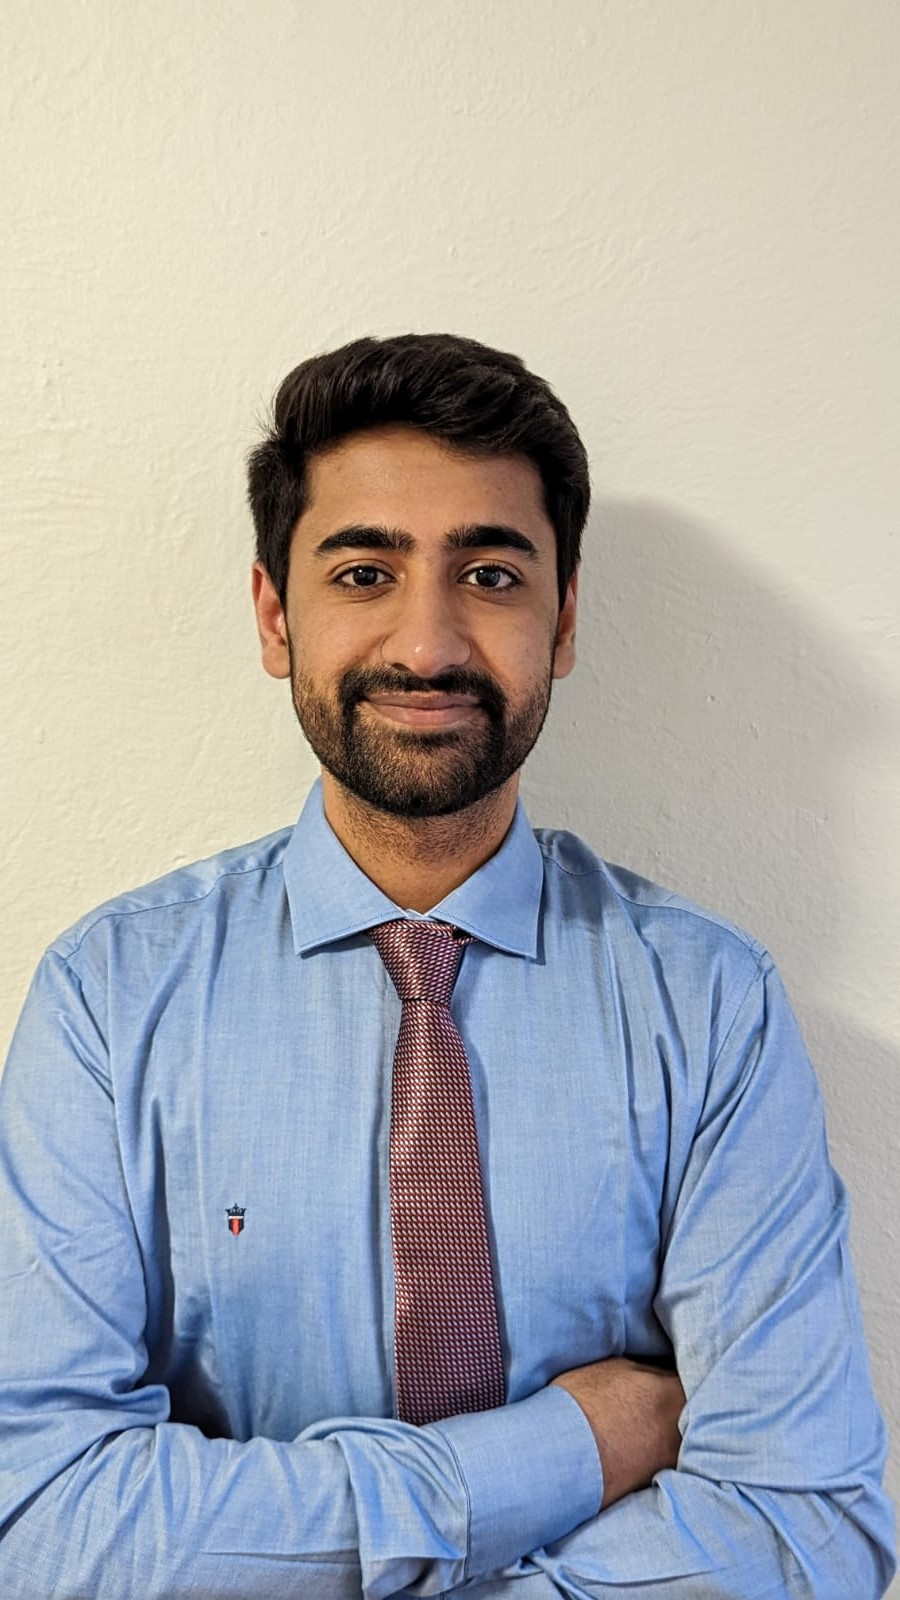
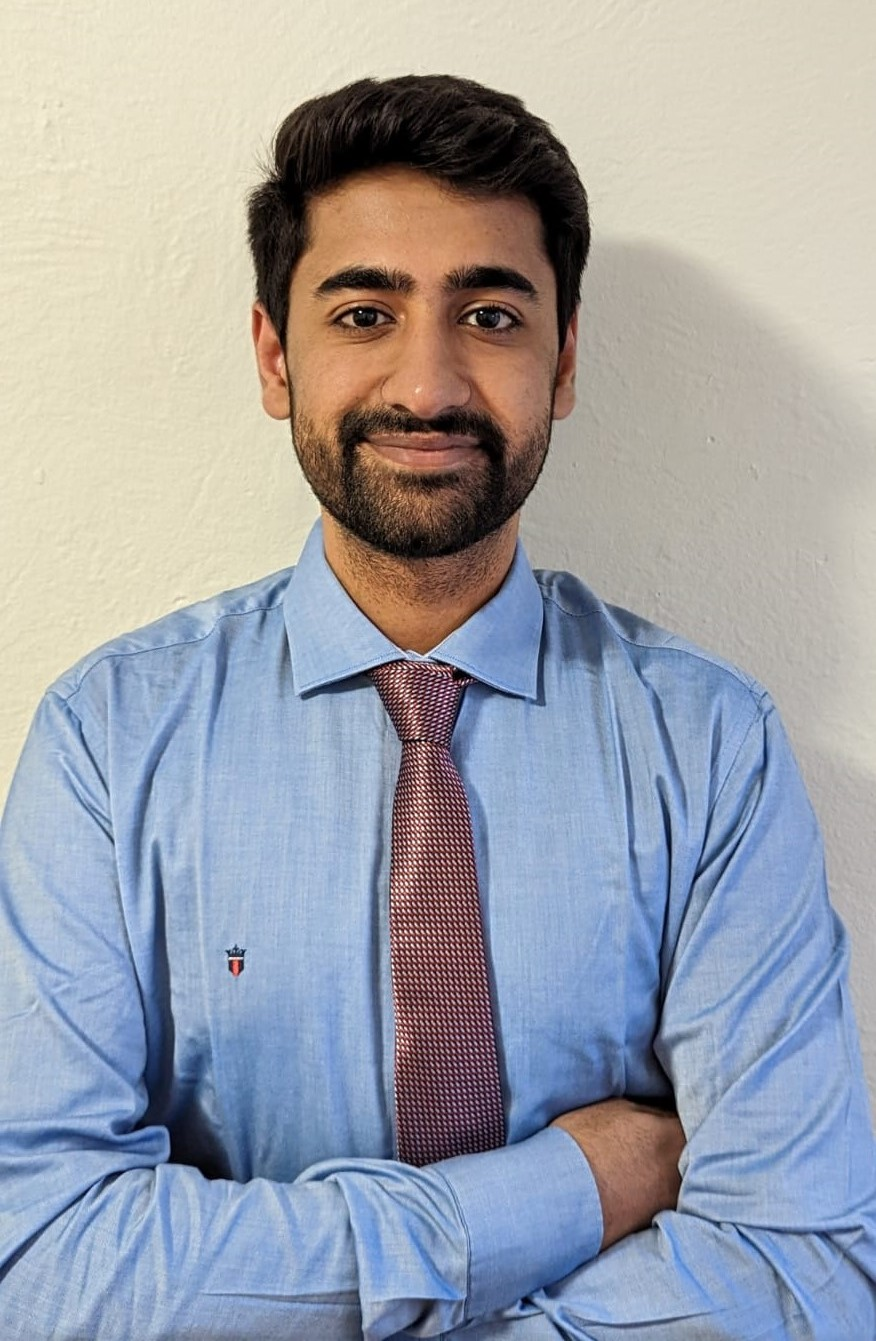
added shadow to cards

diff --git a/src/components/Contact/Contact.jsx b/src/components/Contact/Contact.jsx
@@ -16,6 +16,7 @@ const Footer = () => {
             behavior: "smooth",
         });
     };
+
     return (
         <Container id="contact">
             <Profile>
@@ -43,30 +44,60 @@ const Footer = () => {
                     </Slide>
                     <div className="icons">
                         <Zoom>
-                            <span>
-                                <a href="/">
+                            <span
+                                onClick={() =>
+                                    window.open(
+                                        "https://www.linkedin.com/in/anshul1610",
+                                        "_blank"
+                                    )
+                                }
+                            >
+                                <a>
                                     <AiFillLinkedin />
                                 </a>
                             </span>
                         </Zoom>
                         <Zoom>
-                            <span>
-                                <a href="/">
+                            <span
+                                onClick={() =>
+                                    window.open(
+                                        "https://www.github.com/anshulsharma1610",
+                                        "_blank"
+                                    )
+                                }
+                            >
+                                <a>
                                     <AiFillGithub />
                                 </a>
                             </span>
                         </Zoom>
                         <Zoom>
-                            <span>
-                                <a href="/">
+                            <span
+                                onClick={() =>
+                                    window.open(
+                                        "https://www.instagram.com/anshul1610",
+                                        "_blank"
+                                    )
+                                }
+                            >
+                                <a>
                                     <AiOutlineInstagram />
                                 </a>
                             </span>
                         </Zoom>
                     </div>
                 </div>
-            </Profile>
 
+                <Slide direction="right" delay={1}>
+                    <Technologies>
+                        <p>
+                            Built with <span className="green">React</span>,
+                            Styled Components, & React Icons, deployed with{" "}
+                            <span className="green"></span>.
+                        </p>
+                    </Technologies>
+                </Slide>
+            </Profile>
             <Fade>
                 <ArrowUp onClick={scrollUp}>
                     <AiOutlineArrowUp />
@@ -183,5 +214,14 @@ const ArrowUp = styled.div`
         bottom: 15rem;
         right: 3rem;
         z-index: 999;
+    }
+`;
+
+const Technologies = styled.div`
+    margin-top: 1rem;
+    text-align: center;
+
+    p {
+        font-size: 1rem;
     }
 `;

diff --git a/src/components/Banner/ProfComponent.jsx b/src/components/Banner/ProfComponent.jsx
@@ -1,12 +1,10 @@
 import React from "react";
-import { Redirect } from "react-router";
 import styled from "styled-components";
 import {
     AiOutlineInstagram,
     AiFillLinkedin,
     AiFillGithub,
 } from "react-icons/ai";
-import { FaLinkedinIn } from "react-icons/fa";
 import { Slide } from "react-awesome-reveal";
 
 const ProfComponent = () => {
@@ -69,13 +67,12 @@ const ProfComponent = () => {
                     <Social>
                         <div className="social-icons">
                             <span
-                                onClick={() => {
+                                onClick={() =>
                                     window.open(
                                         "https://www.linkedin.com/in/anshul1610",
                                         "_blank"
-                                    );
-                                    return false;
-                                }}
+                                    )
+                                }
                             >
                                 <a>
                                     <AiFillLinkedin />
@@ -159,15 +156,16 @@ const Texts = styled.div`
 
     button {
         padding: 0.7rem 2rem;
-        margin-top: 3rem;
+        margin-top: 2rem;
         cursor: pointer;
         background-color: #01be96;
         border: none;
         color: #fff;
         font-weight: 500;
-        filter: drop-shadow(0px 10px 10px #01be9551);
+        filter: drop-shadow(0px 0px 3px #64ffda);
         :hover {
-            filter: drop-shadow(0px 10px 10px #01be9570);
+            filter: drop-shadow(0px 1px 6px #64ffda) !important;
+            transform: rotate(359deg) !important;
         }
     }
 `;
@@ -201,7 +199,9 @@ const Social = styled.div`
             background-color: #01be96;
             position: relative;
             transition: transform 400ms ease-in-out;
+            filter: drop-shadow(0px 0px 10px #64ffda);
             :hover {
+                filter: drop-shadow(0px 10px 10px #64ffda) !important;
                 transform: rotate(360deg);
             }
         }
@@ -215,13 +215,17 @@ const Social = styled.div`
         }
     }
 `;
+
 const Profile = styled.div`
     img {
         width: 25rem;
-        height: 35rem;
-        border-radius: 10rem;
-        filter: drop-shadow(0px 10px 10px #01be9570);
-        transition: transform 400ms ease-in-out;
+        height: 30rem;
+        position: relative;
+        overflow: hidden;
+        border-radius: 11rem;
+        box-shadow: 0 0 10px rgba(0, 0, 0, 0.3); /* Customize the box shadow properties */
+        filter: drop-shadow(0px 4px 10px #64ffda);
+        transition: transform 300ms ease-in-out;
         @media (max-width: 790px) {
             width: 20rem;
         }
@@ -236,6 +240,7 @@ const Profile = styled.div`
     }
 
     :hover img {
+        filter: drop-shadow(0px 5px 20px #64ffda);
         transform: translateY(-10px);
     }
 `;

diff --git a/src/components/Skills/Skills.jsx b/src/components/Skills/Skills.jsx
@@ -32,7 +32,7 @@ const Skills = () => {
                         ]}
                     />
                 </Slide>
-                <Slide direction="up">
+                <Slide direction="left">
                     <Card
                         Icon={MdOutlineKeyboard}
                         title={"Languages"}
@@ -46,7 +46,7 @@ const Skills = () => {
                         ]}
                     />
                 </Slide>
-                <Slide direction="up">
+                <Slide direction="right">
                     <Card
                         Icon={FiDatabase}
                         title={"Databases"}

diff --git a/src/components/Education/Card.jsx b/src/components/Education/Card.jsx
@@ -1,6 +1,5 @@
 import React from "react";
 import styled from "styled-components";
-import { AiOutlineStar } from "react-icons/ai";
 
 const EducationCard = props => {
     const { name, img, degree, course, coursework, gpa, graduation } =
@@ -46,7 +45,8 @@ const Container = styled.div`
         rgb(43, 43, 53) 100%
     );
     padding: 1.5rem 1rem;
-    margin: 0 1rem;
+    filter: drop-shadow(0px 0.4px 4px #64ffda);
+    margin: 1rem 1rem;
 `;
 
 const Header = styled.div`

diff --git a/src/components/Banner/Header.jsx b/src/components/Banner/Header.jsx
@@ -15,7 +15,6 @@ const Header = () => {
                 <span className="green">
                     <GiTriangleTarget />
                 </span>
-                {/* <h1>Anshul Sharma</h1> */}
             </Logo>
             <Nav bar={bar}>
                 <span>
@@ -169,6 +168,7 @@ const Nav = styled.div`
             }
             :hover {
                 opacity: 0.7;
+                color: #64ffda;
             }
         }
     }

diff --git a/src/components/Projects/Card.jsx b/src/components/Projects/Card.jsx
@@ -48,9 +48,10 @@ const Card = styled.div`
         rgb(45, 45, 58) 0%,
         rgb(43, 43, 53) 100%
     );
+    filter: drop-shadow(0px 0.4px 4px #64ffda);
     border-radius: 0.5rem;
     padding: 1.5rem;
-    margin-bottom: 2rem;
+    margin-bottom: 1rem;
 
     h2 {
         display: flex;

diff --git a/src/components/Experience/Card.jsx b/src/components/Experience/Card.jsx
@@ -39,8 +39,9 @@ const Container = styled.div`
         rgb(45, 45, 58) 0%,
         rgb(43, 43, 53) 100%
     );
+    filter: drop-shadow(0px 0.4px 4px #64ffda);
     padding: 1.5rem 1rem;
-    margin: 0 1rem;
+    margin: 1rem 1rem;
 `;
 
 const Header = styled.div`

diff --git a/src/components/Skills/Card.jsx b/src/components/Skills/Card.jsx
@@ -24,6 +24,7 @@ export default Card;
 
 const Container = styled.div`
     width: 100%;
+    filter: drop-shadow(0px 0.4px 4px #64ffda);
     height: 420px !important;
     background: linear-gradient(
         159deg,
